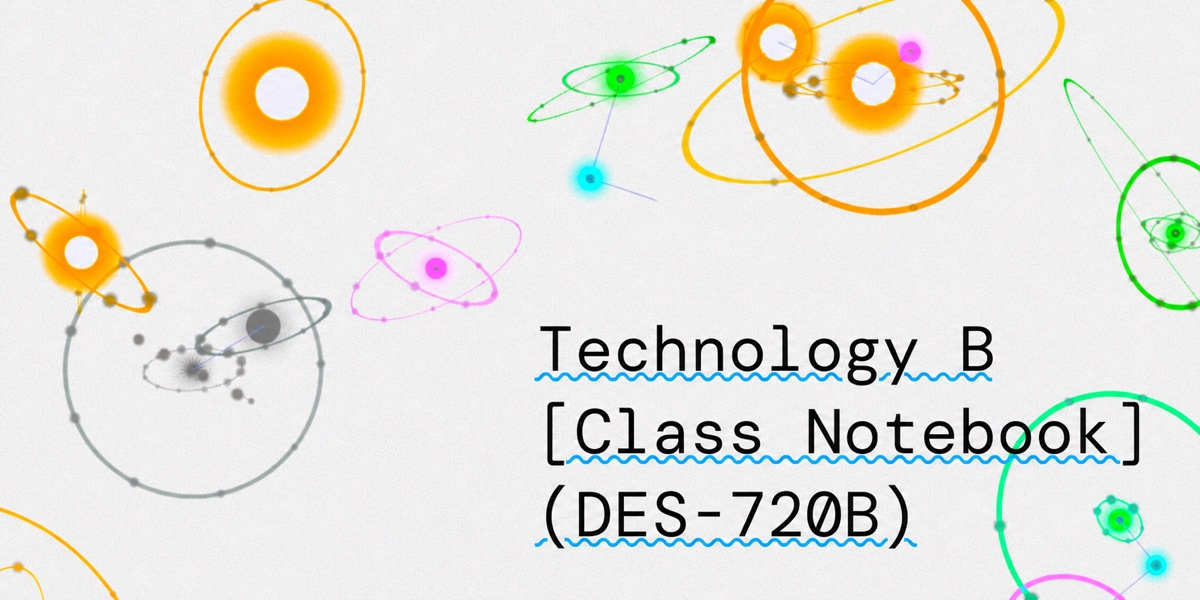
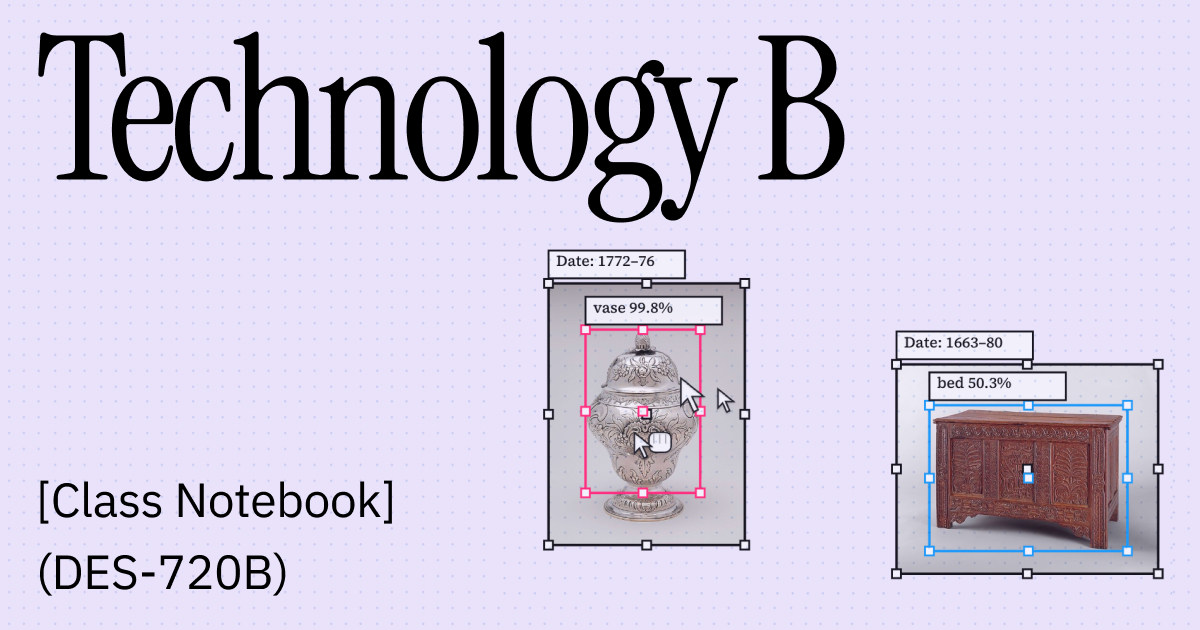
Migrate homepage controls to production

diff --git a/docs/homepage-sheet-migration.md b/docs/homepage-sheet-migration.md
@@ -1,12 +1,13 @@
-# Homepage sheet development migration
+# Homepage sheet migration
 
-Date: 2026-09-11
+- Started: 2026-09-11
+- Migrated to production: 2026-09-14
 
 - Production workbook: `1xjTWCIFYt3wOf0qKDcid2PxkLllHN3cTjkyLnOfDvBE`
 - Development workbook: `1YiU0TE5AKzGmDE0J0JrKoP1teNbvsHw-mvC0fAR8gcY`
 - Development branch: `codex/homepage-sheet-dev`
 
-The production workbook is the rollback source and was not edited. The development workbook is a complete Drive copy made before the migration.
+The development workbook was the review copy used to test the new controls. The reviewed Homepage, Work Glossary, Writing, Teaching, and Events ranges were migrated to the production workbook on 2026-09-14. Google Sheets version history remains the rollback path for the production workbook.
 
 The new code is backward-compatible:
 
@@ -17,6 +18,6 @@ The new code is backward-compatible:
 - Teaching uses the explicit `Ongoing` checkbox when present and falls back to semester inference when the column is absent. The development sheet currently checks Technology A, Technology B, Thesis I, Thesis II, and Visual Language B.
 - The previous manual homepage work rows remain in the workbook and are disabled only through `Show`.
 
-The development workbook is private, so local preview uses the checked-in YAML snapshots. Before production migration, apply the reviewed development ranges to the production workbook, remove the development-only data override, and verify the live OpenSheet reads before deployment.
+Production is again the source of truth. Local preview can still use the checked-in YAML snapshots when the production sheet is unavailable; a normal build refreshes those snapshots from the production workbook.
 
 To refresh homepage media from the checked-in snapshot, run `npm run capture:homepage`. `Record` automatically scrolls from the top of the target page, then compresses the recording to a lightweight 960 × 540 WebM; `Screenshot` makes a compressed full-page JPEG; `OG` uses the page's Open Graph image or video. Existing cached captures are replaced only by this explicit refresh command or a force build.
